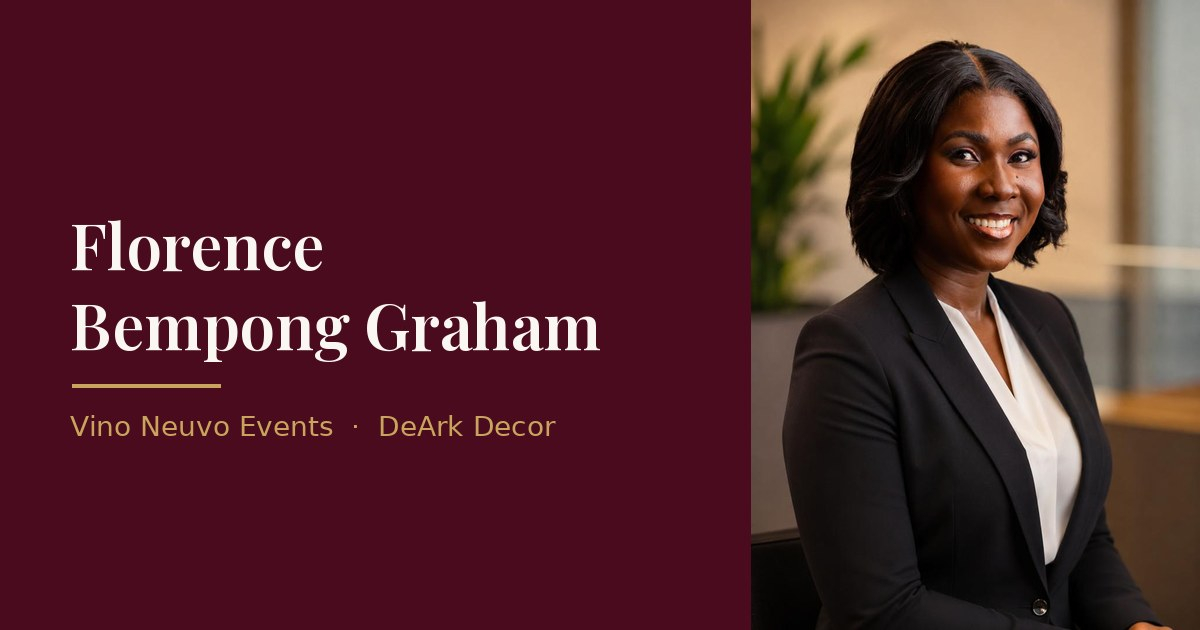
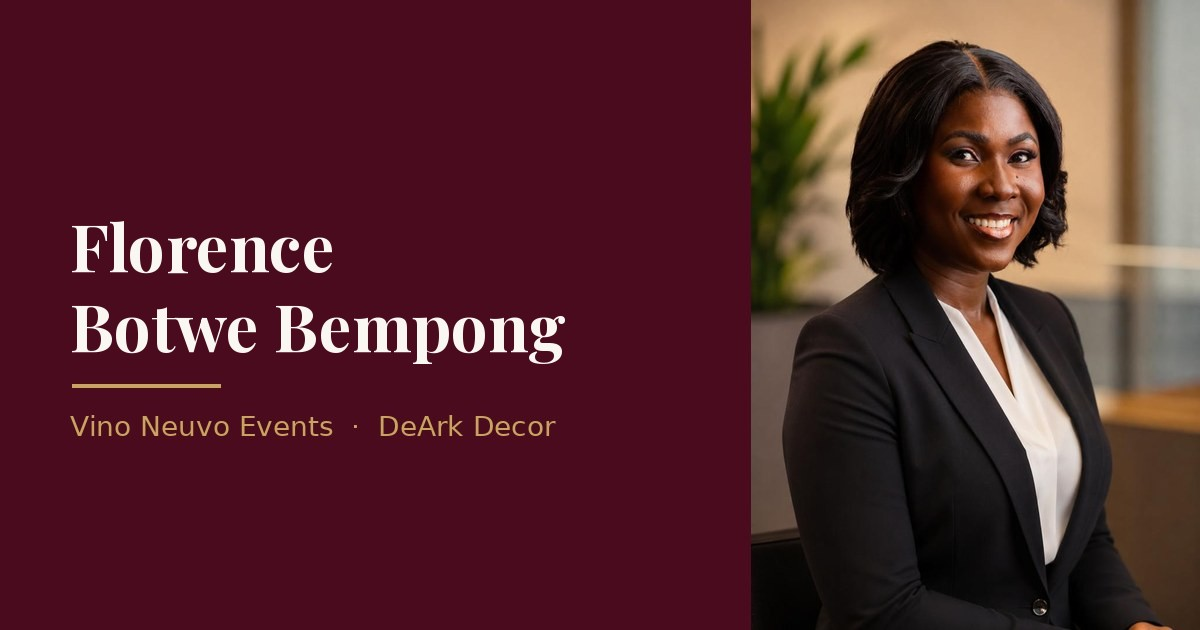
Name: Florence Botwe Bempong

Changed region(s): [[0.0617, 0.4825, 0.5242, 0.573], [0.0617, 0.3317, 0.2775, 0.4524]]

diff --git a/index.html b/index.html
@@ -7,24 +7,24 @@
 <link rel="icon" href="/favicon.ico?v=3" sizes="any">
 <link rel="icon" type="image/png" sizes="32x32" href="/favicon-32.png?v=3">
 <link rel="apple-touch-icon" href="/apple-touch-icon.png?v=3">
-<meta name="description" content="Florence Bempong Graham: event strategy and planning with Vino Neuvo Events, and interior design with DeArk Decor and Home Solutions, Accra.">
-<meta property="og:title" content="Florence Bempong Graham">
+<meta name="description" content="Florence Botwe Bempong: event strategy and planning with Vino Neuvo Events, and interior design with DeArk Decor and Home Solutions, Accra.">
+<meta property="og:title" content="Florence Botwe Bempong">
 <meta property="og:description" content="Vino Neuvo Events and DeArk Decor and Home Solutions, Accra.">
-<meta property="og:image" content="https://florencebempong.com/og-image.jpg">
+<meta property="og:image" content="https://florencebempong.com/og-image.jpg?v=2">
 <meta property="og:url" content="https://florencebempong.com/">
 <meta property="og:type" content="website">
-<meta property="og:site_name" content="Florence Bempong Graham">
-<meta property="og:image:secure_url" content="https://florencebempong.com/og-image.jpg">
+<meta property="og:site_name" content="Florence Botwe Bempong">
+<meta property="og:image:secure_url" content="https://florencebempong.com/og-image.jpg?v=2">
 <meta property="og:image:type" content="image/jpeg">
 <meta property="og:image:width" content="1200">
 <meta property="og:image:height" content="630">
-<meta property="og:image:alt" content="Florence Bempong Graham, founder of Vino Neuvo Events and DeArk Decor and Home Solutions">
-<meta name="twitter:title" content="Florence Bempong Graham">
+<meta property="og:image:alt" content="Florence Botwe Bempong, founder of Vino Neuvo Events and DeArk Decor and Home Solutions">
+<meta name="twitter:title" content="Florence Botwe Bempong">
 <meta name="twitter:description" content="Vino Neuvo Events and DeArk Decor and Home Solutions, Accra.">
-<meta name="twitter:image" content="https://florencebempong.com/og-image.jpg">
+<meta name="twitter:image" content="https://florencebempong.com/og-image.jpg?v=2">
 <meta name="twitter:card" content="summary_large_image">
 
-    <title>Florence Bempong Graham</title>
+    <title>Florence Botwe Bempong</title>
     <link rel="preconnect" href="https://fonts.googleapis.com" />
     <link rel="preconnect" href="https://fonts.gstatic.com" crossorigin />
     <link
@@ -654,7 +654,7 @@
 
         <header class="x-nav" id="x-nav">
           <div class="x-wrap x-nav__in">
-            <a class="x-logo" href="#/home">Florence Bempong Graham</a>
+            <a class="x-logo" href="#/home">Florence Botwe Bempong</a>
             <button class="x-burger" type="button" aria-label="Open menu" aria-expanded="false" aria-controls="x-menu"><span></span></button>
             <nav class="x-menu" id="x-menu" aria-label="Main">
               <a href="#/home" data-route-link="home">Home</a>
@@ -672,11 +672,11 @@
             <section class="x-me" aria-label="Introduction">
               <div class="x-wrap x-me__in">
                 <div class="x-arch x-reveal">
-                  <img src="headshot.jpeg" alt="Portrait of Florence Bempong Graham" />
+                  <img src="headshot.jpeg" alt="Portrait of Florence Botwe Bempong" />
                 </div>
                 <div class="x-reveal">
                   <p class="x-me__eyebrow">Event Strategist | Creative Entrepreneur | Founder</p>
-                  <h1>Florence <em>Bempong</em> Graham</h1>
+                  <h1>Florence <em>Botwe</em> Bempong</h1>
                   <p class="x-me__sub">Founder of Vino Neuvo Events and DeArk Décor and Home Solutions. Turning visions into purposeful experiences.</p>
                   <div class="x-me__cta">
                     <a class="x-btn" href="#/home/work">View My Work</a>
@@ -828,7 +828,7 @@
           <div class="x-brandbar">
             <div class="x-wrap x-brandbar__in">
               <img src="logo-vinoneuvo.png" alt="Vino Neuvo Events" />
-              <a class="x-founded" href="#/home">Founded by <b>Florence Bempong Graham</b></a>
+              <a class="x-founded" href="#/home">Founded by <b>Florence Botwe Bempong</b></a>
             </div>
           </div>
 
@@ -1335,7 +1335,7 @@
                   <li><span>YouTube</span><a href="https://youtu.be/rXcTKT775Mg" target="_blank" rel="noopener">Watch on YouTube</a></li>
                 </ul>
                 <div class="x-dkc__foot x-reveal">
-                  <a class="x-dk-founded" href="#/home">Founded by <b>Florence Bempong Graham</b></a>
+                  <a class="x-dk-founded" href="#/home">Founded by <b>Florence Botwe Bempong</b></a>
                   <div>
                     <small>We'll preselect DeArk on the enquiry form.</small>
                     <a class="x-btn x-btn--dk" href="#/contact/deark">Enquire about décor</a>
@@ -1409,7 +1409,7 @@
           <div class="x-wrap">
             <div class="x-foot__top">
               <div>
-                <p class="x-foot__mark">Florence Bempong Graham</p>
+                <p class="x-foot__mark">Florence Botwe Bempong</p>
                 <p class="x-foot__tag">Turning visions into purposeful experiences.</p>
               </div>
               <div>
@@ -1428,7 +1428,7 @@
               </div>
             </div>
             <div class="x-foot__bottom">
-              <span>© 2026 Florence Bempong Graham. All rights reserved.</span>
+              <span>© 2026 Florence Botwe Bempong. All rights reserved.</span>
               <span>Built by <a href="https://futuregh.com" target="_blank" rel="noopener">Future</a></span>
             </div>
           </div>
@@ -1476,7 +1476,7 @@
         var routes = [].slice.call(d.querySelectorAll(".x-route"));
         var links = [].slice.call(nav.querySelectorAll("[data-route-link]"));
         var video = d.getElementById("x-swim");
-        var titles = { home: "Florence Bempong Graham", "vino-neuvo": "Vino Neuvo Events · Florence Bempong Graham", deark: "DeArk Décor and Home Solutions · Florence Bempong Graham", contact: "Contact · Florence Bempong Graham" };
+        var titles = { home: "Florence Botwe Bempong", "vino-neuvo": "Vino Neuvo Events · Florence Botwe Bempong", deark: "DeArk Décor and Home Solutions · Florence Botwe Bempong", contact: "Contact · Florence Botwe Bempong" };
         var current = null;
         function route() {
           var parts = location.hash.replace(/^#\/?/, "").split("/");
